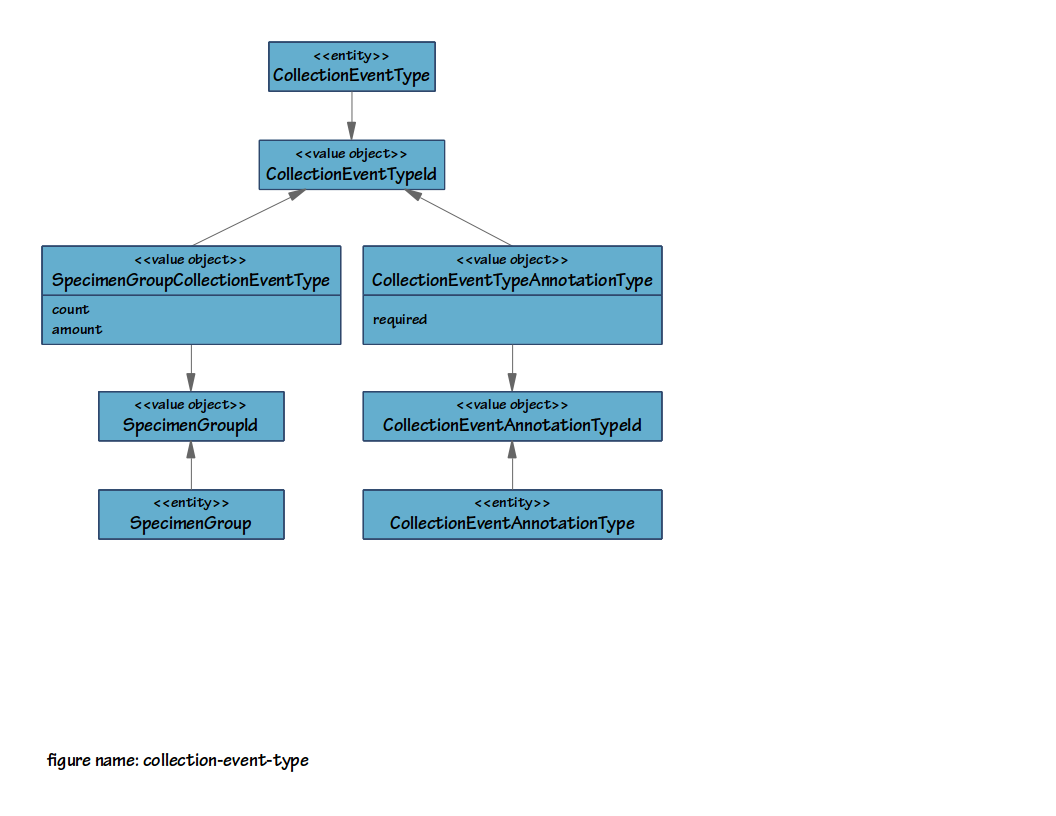
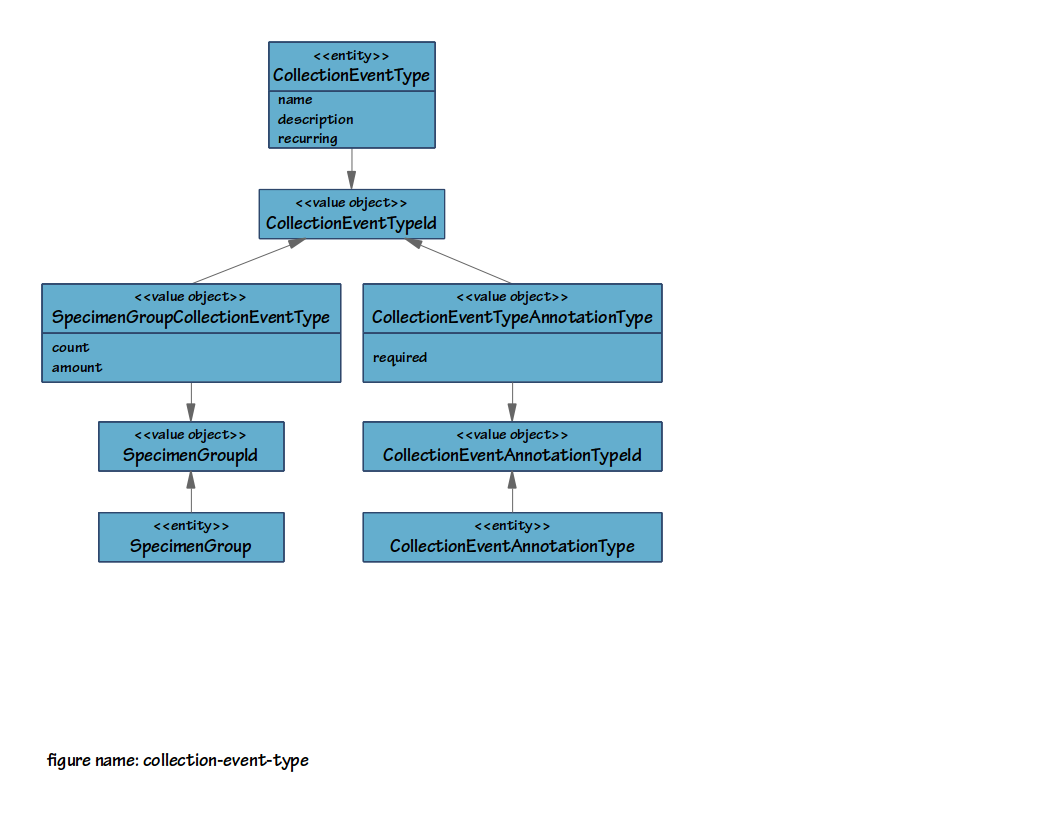
more re-org and now working on specimen collection

Changed region(s): [[0.0312, 0.0919, 0.625, 0.7047]]

diff --git a/study-management.tex b/study-management.tex
@@ -10,7 +10,7 @@ are processed, and allows for customization with use of annotation types. This
 aggregate is made up of the entities and value objects shown in the figure
 below.
 
-\begin{figure}[h]
+\begin{figure}[H]
   \includegraphics[trim={9mm 85mm 36mm 9mm}, clip,
     width=1\textwidth]{images/study-aggregate}
   \caption{Study aggregate}
@@ -40,34 +40,17 @@ A \entitytarget{SpecimenGroup} is used to configure a specimen type used by the
 study.  It records ownership, summary, storage, and classification information
 that applies to an entire group or collection of \entitylink{Specimen}s. A
 specimen group is defined either for specimens types collected from
-participants, or for the types of specimens that are processed.
-
-A specimen group has a name and a description: the name is a short identifying
-name that is unique to the study, and the description can provide additional
-details but is optional. The unit specifies how the specimen amount is measured
-(e.g. volume, weight, length, etc.).
-
-A study can have one or more specimen groups defined.  For specimen collection
-to be allowed on a study, at least one specimen group must be defined.
-
-The anatomical source, preservation medium and specimen type are defined using
-other value objects discussed in Section \ref{sec:specimen-group}.
+participants, or for specimen types that are processed. More details for this
+entity are given in Section \ref{sec:specimen-group}.
 
 \subsection*{CollectionEventType}
 
 A \entitytarget{CollectionEventType} defines a classification name, unique to
-the \entitylink{Study}, to a paricipant visit. A participan visit is when
-specimens are collected directly from the participant at a collection
+the \entitylink{Study}, to a paricipant visit. A participan visit is a record
+of when specimens were collected from a participant at a collection
 center. Each collection event type is assigned one or more specimen groups to
-specify the specimen types that are collected (see Section
-\ref{sec:collection-event-type}).
-
-If the collection event of this type occurs more than once during the lifetime
-of the study, then set \texttt{recurring} to \texttt{true}.
-
-A study can have one or more collection event types defined. For specimen
-collection to be allowed on a study, at least one collection event type must be
-defined.
+specify the specimen types that are collected. See Section
+\ref{sec:collection-event-type} for more details.
 
 \subsection*{ProcessingType}
 
@@ -76,16 +59,7 @@ processing procedure with a unique name (unique to the
 \entitylink{Study}). There should be one or more associated
 \entitylink{SpecimenLinkType}s that (1) further define legal procedures and (2)
 allow recording of procedures performed on different types of
-\entitylink{Specimen}s.
-
-A processing type should have \texttt{enabled} set to \texttt{true} if when
-processing of specimens is taking place. However, throughout the lifetime of
-the study, it may be decided to stop a processing type in favour of
-another. In this case \texttt{enabled} is set to \texttt{false}.
-
-One or more processing types can be defined for a study. For specimen
-processing to be allowed on a study, at least one processing type must be
-defined.
+\entitylink{Specimen}s. See Section \ref{sec:processing-type} for more details.
 
 \subsection*{StudyAnnotationType}
 
@@ -110,9 +84,17 @@ data. A study can have one or more comments.
 The \entitylink{SpecimenGroup} entity is composed of the value objects shown
 in Figure \ref{fig:specimen-group}.
 
-\begin{figure}[h]
+A specimen group has a name and an optional description. The name is a short
+identifying name that is unique to the study, and the description can provide
+additional details on the name. The unit specifies how the specimen amount is
+measured (e.g. volume, weight, length, etc.).
+
+A study can have one or more specimen groups. For specimen collection to be
+allowed on a study, at least one specimen group must be defined.
+
+\begin{figure}[H]
   \centering
-  \includegraphics[trim={9mm 162mm 80mm 9mm}, clip,
+  \includegraphics[trim={9mm 130mm 80mm 9mm}, clip,
     width=1\textwidth]{images/specimen-group}
   \caption{SpecimenGroup entity}
   \label{fig:specimen-group}
@@ -155,15 +137,25 @@ A specimen group contains the ID of a single specimen type.
 \section{CollectionEventType Details}
 \label{sec:collection-event-type}
 
-A collection even type can be configured to collect one or more specimens using
+A collection event type has a name and an optional description. The name is a
+short identifying name that is unique to the study, and the description can
+provide additional details on the name. The \texttt{recurring} field is set to
+\texttt{true} when the collection event type occurs more than once during the
+lifetime of the study.
+
+A collection event type can be configured to collect one or more specimens using
 \entitylink{SpecimenGroupCollectionEventType}. It can also be configured to
 record one or more annotation types using
 \entitylink{CollectionEventTypeAnnotationType}. These associations are shown in
 Figure \ref{fig:collection-event-type}.
 
+A study can have one or more collection event types defined. For specimen
+collection to be allowed on a study, at least one collection event type must be
+defined.
+
 \begin{figure}[H]
   \centering
-  \includegraphics[trim={9mm 70mm 96mm 9mm}, clip,
+  \includegraphics[trim={9mm 65mm 96mm 9mm}, clip,
     width=0.8\textwidth]{images/collection-event-type}
   \caption{Details for the CollectionEventType entity}
   \label{fig:collection-event-type}
@@ -191,15 +183,27 @@ multiple collection event types.
 \section{ProcessingType Details}
 \label{sec:processing-type}
 
+A processing type has a name and an optional description. The name is a short
+identifying name that is unique to the study, and the description can provide
+additional details on the name. A processing type should have \texttt{enabled}
+set to \texttt{true} when processing of the contained specimen types is taking
+place. However, throughout the lifetime of the study, it may be decided to stop
+a processing type in favour of another. In this case \texttt{enabled} is set to
+\texttt{false}.
+
 A processing type can be configured to process one or more collected specimens
 using \valobjlink{SpecimenLinkType}. Individual specimen link types within the
 processing type can also be configured to record one or more annotation using
 \valobjlink{SpecimenLinkTypeAnnotationType}. Figure \ref{fig:processing-type}
 provides more details for the processing type entity.
 
+One or more processing types can be defined for a study. For specimen
+processing to be allowed on a study, at least one processing type must be
+defined.
+
 \begin{figure}[H]
   \centering
-  \includegraphics[trim={9mm 48mm 120mm 9mm}, clip,
+  \includegraphics[trim={9mm 35mm 120mm 9mm}, clip,
     width=0.7\textwidth]{images/processing-type}
   \caption{Details for the ProcessingType entity.}
   \label{fig:processing-type}

diff --git a/specimen-collection.tex b/specimen-collection.tex
@@ -1,0 +1,18 @@
+\chapter{Specimen Collection}
+
+The \entitylink{Participant} aggregate is used to record specimens collected
+from study participants.
+
+\begin{figure}[H]
+  \includegraphics[trim={10mm 75mm 102mm 10mm}, clip,
+    width=0.75\textwidth]{images/participant-aggregate}
+  \caption{Participant aggregate}
+  \label{fig:participant-aggregate}
+\end{figure}
+
+\begin{figure}[H]
+  \includegraphics[trim={10mm 66mm 75mm 10mm}, clip,
+    width=0.85\textwidth]{images/collection-event}
+  \caption{CollectionEvent entity}
+  \label{fig:collection-event}
+\end{figure}

diff --git a/domain-model.tex b/domain-model.tex
@@ -12,7 +12,7 @@ chapters.
     collected, how specimens are collected from the study's participants, and
     how they are processed. This modules manages these tasks.
 
-  \item[Participant Collection] \hfill \\ This module is used to record
+  \item[Specimen Collection] \hfill \\ This module is used to record
     specimens collected from participants belonging to a study. The specimens
     collected must be those configured for the study.
 

diff --git a/main.tex b/main.tex
@@ -217,7 +217,7 @@
 \include{architecture}
 \include{domain-model}
 \include{study-management}
-\include{patient-collection}
+\include{specimen-collection}
 
 %----------------------------------------------------------------------------------------
 % Bibliography
